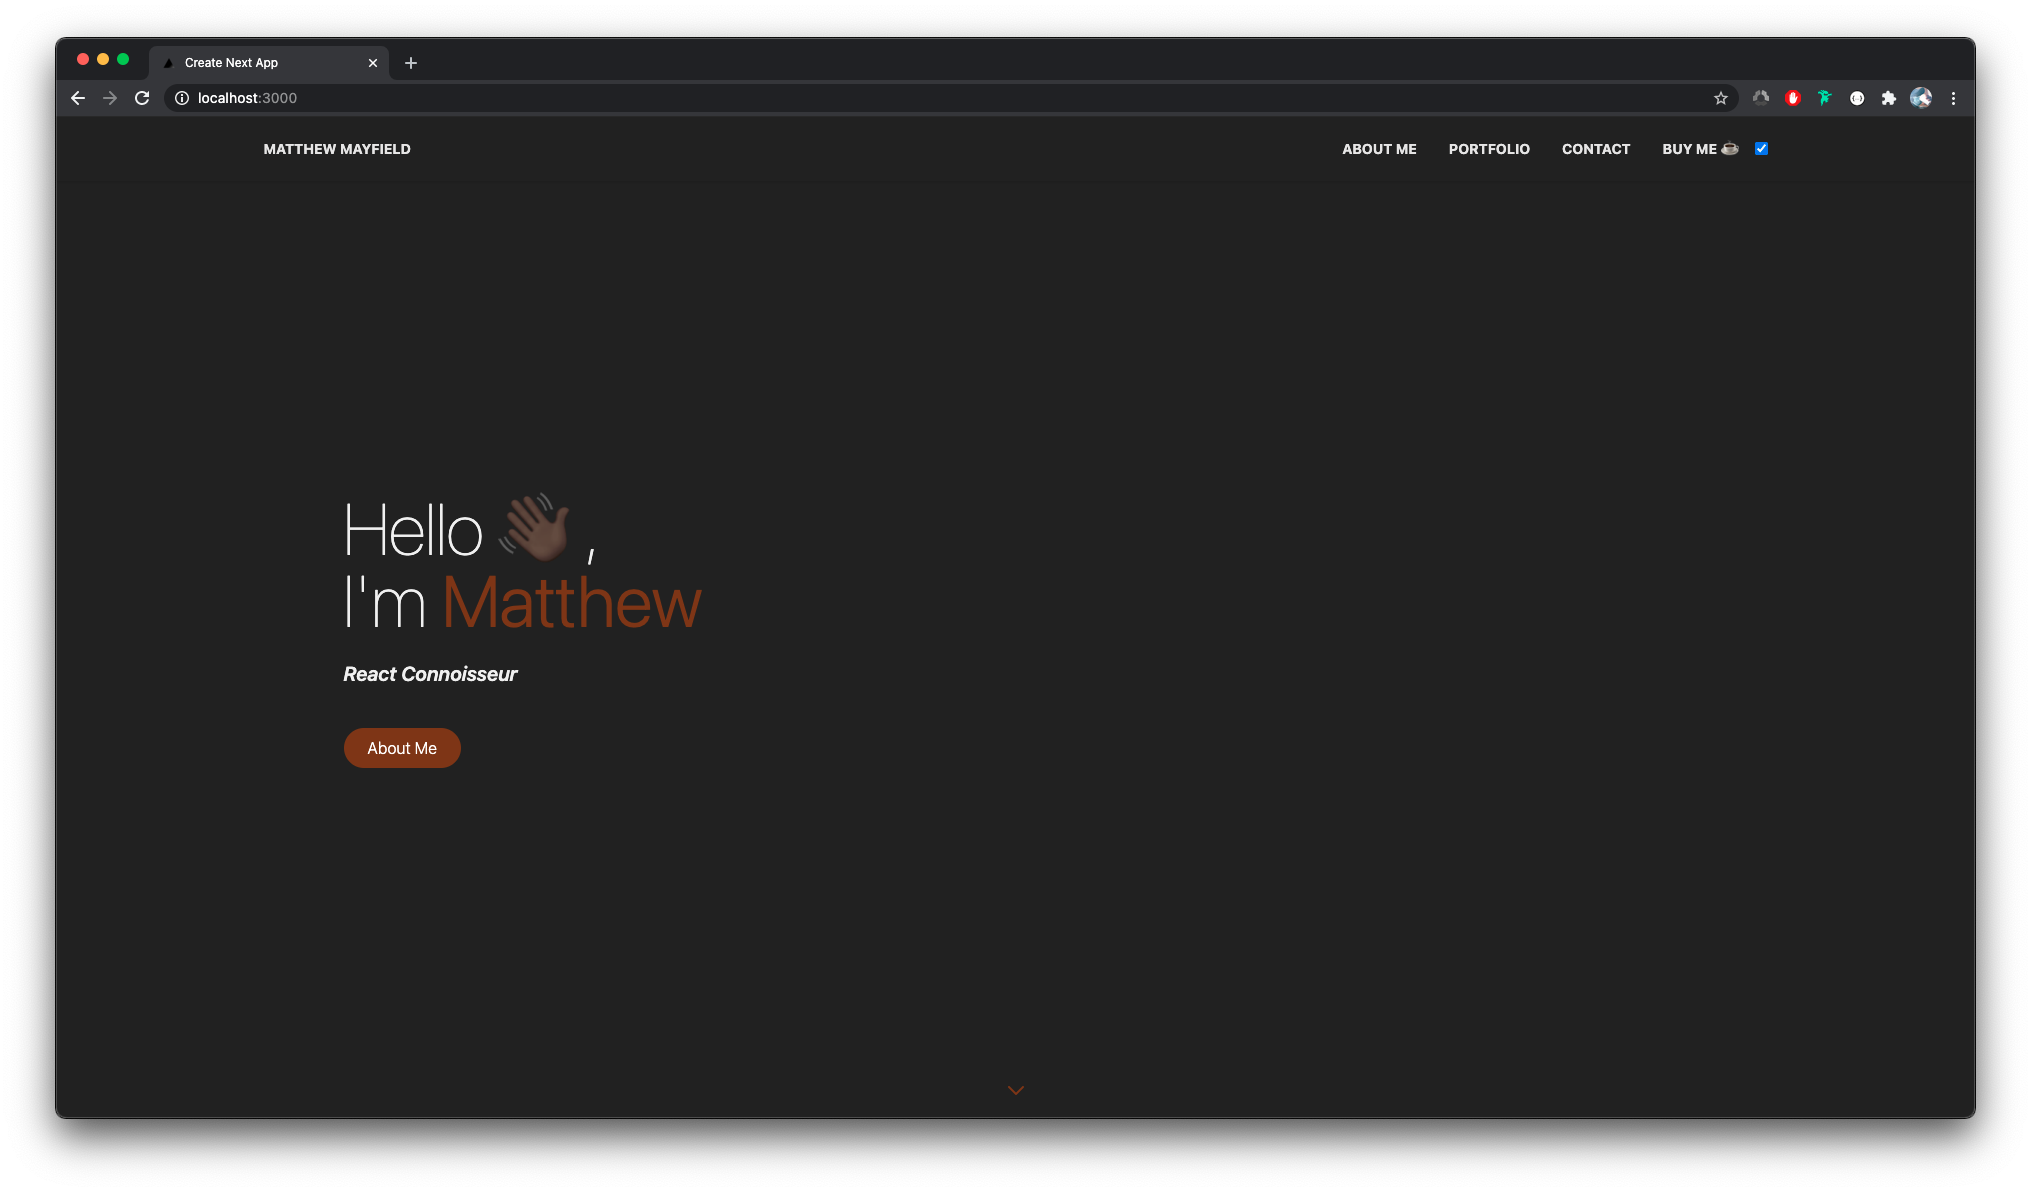
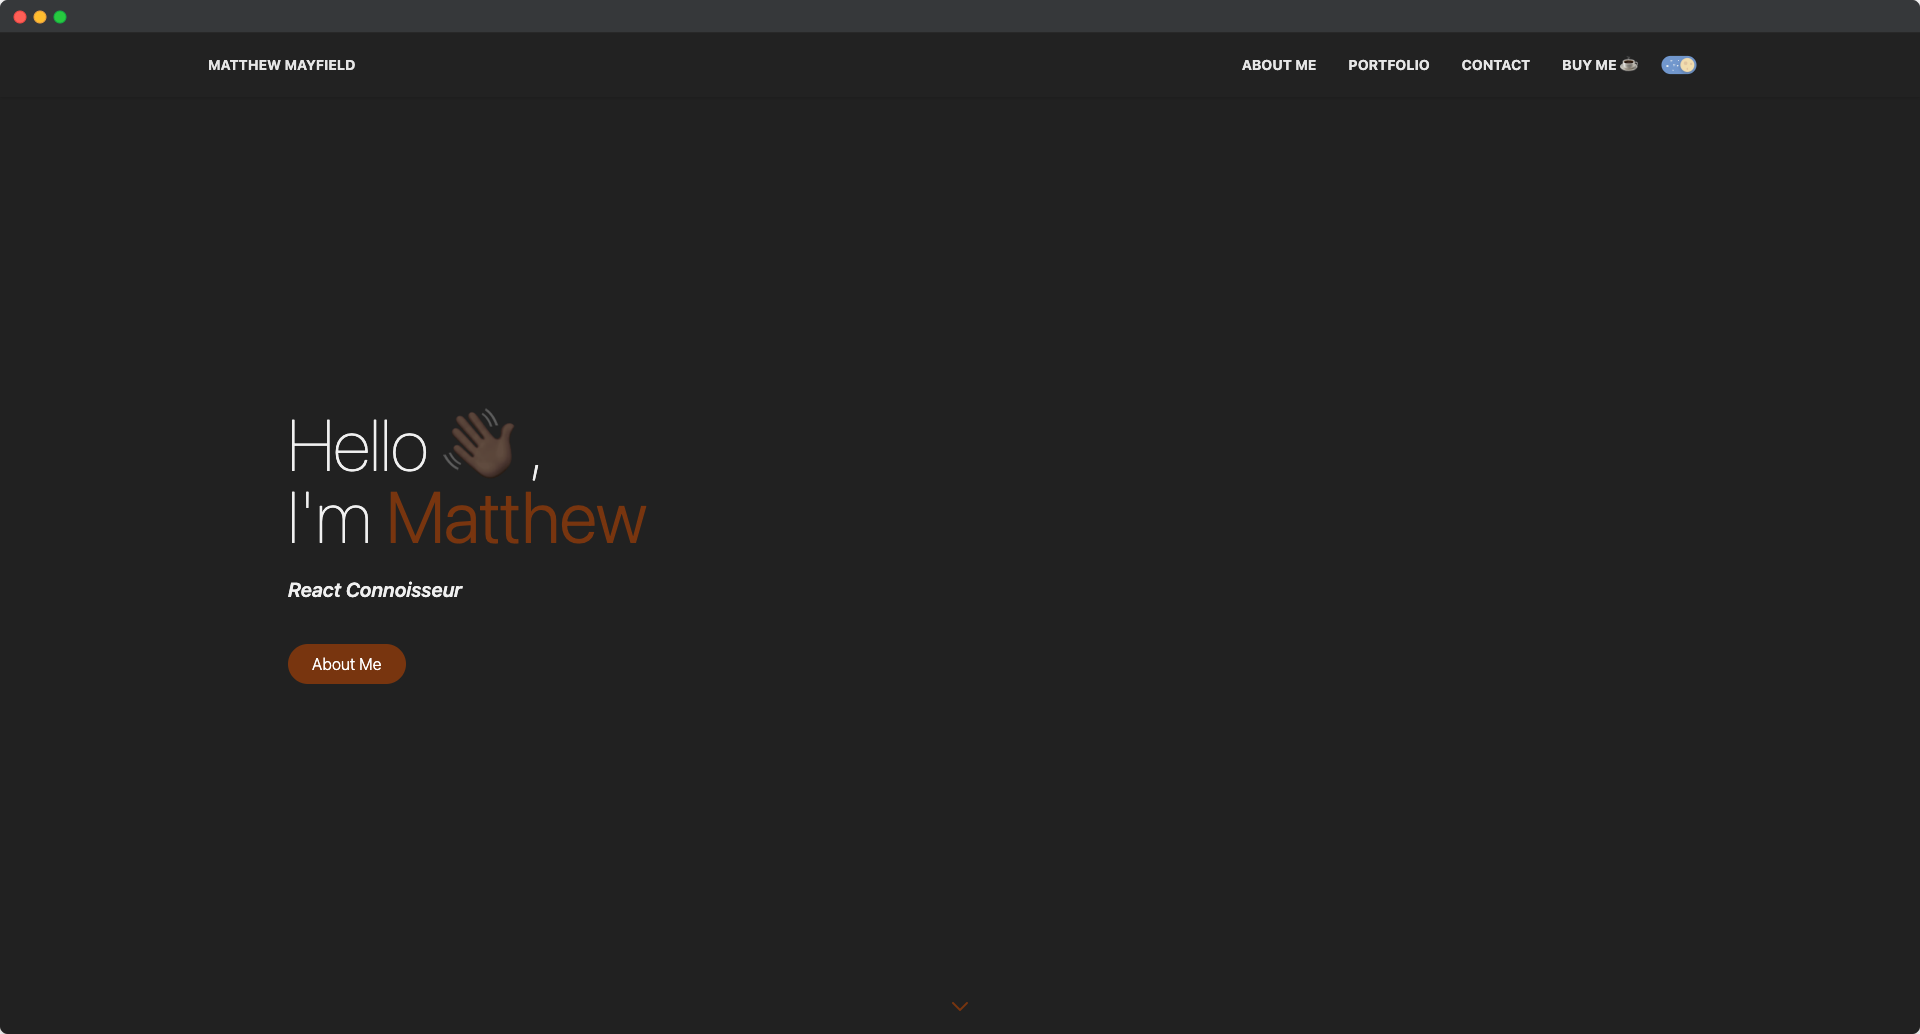
added contact

Changed region(s): [[0.0, 0.0, 1.0, 1.0], [0.1562, 0.4023, 0.3438, 0.5261], [0.125, 0.5571, 0.25, 0.6809]]

diff --git a/components/UI/Socials.js b/components/UI/Socials.js
@@ -1,0 +1,80 @@
+import React from 'react';
+import styled from 'styled-components';
+import { FontAwesomeIcon } from '@fortawesome/react-fontawesome';
+import {
+  faGithub,
+  faLinkedinIn,
+  faInstagram,
+  faYoutube,
+  faTwitter,
+} from '@fortawesome/free-brands-svg-icons';
+
+const StyledIcon = styled(FontAwesomeIcon)`
+  color: var(--text-highlight);
+  font-size: 2.2rem;
+  transition: color 0.2s ease-out;
+
+`;
+
+const socials = [    {
+        name: 'Github',
+        path: 'https://github.com/theMattMayfield',        
+        icon: faGithub,
+        id: 0
+    },
+    {
+        name: 'LinkedIn',
+        path: 'https://LinkedIn.com/theMattMayfield',        
+        icon: faLinkedinIn,
+        id: 1
+    },
+    {
+        name: 'Instagram',
+        path: 'https://instagram.com/theMattMayfield',        
+        icon: faInstagram,
+        id: 2
+    },
+    {
+        name: 'Youtube',
+        path: 'https://youtube.com/theMattMayfield',        
+        icon: faYoutube,
+        id: 3
+    },
+    {
+        name: 'Twitter',
+        path: '',        
+        icon: faTwitter,
+        id: 4
+    }
+]
+
+const SocialLink = () => {
+    return (
+        socials.map((social, i) => (
+            <a
+className="no-underline rounded-full border-2 border-yellow-900 w-12 h-12 cursor-pointer flex items-center justify-center my-0"
+  rel="noreferrer"
+  target="_blank"
+  aria-label={social.name}
+  href={social.path}
+>
+  <StyledIcon className="w-6 h-6" icon={social.icon} />
+</a>
+        ))
+    )
+}
+
+const Social = () => {
+
+  return (
+    <>
+      <div className="flex items-center justify-center space-x-8">
+        <SocialLink />
+        
+      </div>
+     
+    </>
+  );
+};
+
+export default Social;

diff --git a/components/Utils/PortfolioItems.js b/components/Utils/PortfolioItems.js
@@ -31,13 +31,15 @@ const Items = [
 
 const filler = `Lorem Ipsum is simply dummy text of the printing and typesetting industry. Lorem Ipsum has been the 
 industry's standard dummy text ever since the 1500s, when an unknown printer took a galley of type and scrambled it to
+ make a type specimen book. When an unknown printer took a galley of type and scrambled it to
+ make a type specimen book. When an unknown printer took a galley of type and scrambled it to
  make a type specimen book.`
 
 export default function PortfolioItems(props) {
 
   return (
     <>
-      <div className="flex flex-col space-y-32">
+      <div className="flex flex-col space-y-32 max-w-6xl mx-auto">
 
         {Items.map((item, i) => (
 
@@ -46,10 +48,10 @@ export default function PortfolioItems(props) {
             <div className={"lg:flex w-full justify-around text-center " + (i % 2 != 0 ? 'flex-row-reverse' : '')}>
               <PortfolioItem path={item.path} alt={item.alt} />
               <div className="flex flex-col my-auto space-y-6 lg:w-1/2">
-                <p className={"text-center " + (i % 2 != 0 ? 'lg:text-left' : 'lg:text-right')}>{filler}</p>
-                <div className="flex justify-center space-x-4">
-                  <Button>gnrtueigwbsl</Button>
-                  <Button>gnrtueigwbsl</Button>
+                <p className={"text-left"}>{filler}</p>
+                <div className="flex  space-x-4">
+                  <Button>View</Button>
+                  <Button>github</Button>
                 </div>
               </div>
             </div>

diff --git a/components/Utils/NavItemsDesktop.js b/components/Utils/NavItemsDesktop.js
@@ -1,6 +1,5 @@
 import { motion } from "framer-motion"
 import { Link } from 'react-scroll';
-import { useNavState, useNavStateUpdate } from './NavContext'
 
 const navItems = [{
     text: 'About Me',
@@ -55,7 +54,7 @@ export default function NavItems(props) {
                     <motion.li
                         variants={NavItemsVarients}
                         initial="hidden"
-                        animate={props.animate}
+                        animate='visible'
                         custom={i}
                         key={i}
                         className="px-3 py-2 flex items-center text-sm uppercase font-bold dark:text-matt-textlight dark:hover:text-yellow-900 text-matt-textdark hover:text-yellow-900 cursor-pointer ">
@@ -67,7 +66,7 @@ export default function NavItems(props) {
                     <motion.li
                         variants={NavItemsVarients}
                         initial="hidden"
-                        animate={props.animate}
+                        animate='visible'
                         custom={i}
                         key={i}
                         className="px-3 py-2 flex items-center text-sm uppercase font-bold dark:text-matt-textlight dark:hover:text-yellow-900 text-matt-textdark hover:text-yellow-900 cursor-pointer ">

diff --git a/components/UI/DayNightToggleDesktop.js b/components/UI/DayNightToggleDesktop.js
@@ -5,17 +5,17 @@ import { useSpring, animated } from 'react-spring';
 
 
 
-const darkModeToggle = ({ mobile }) => {  
+const darkModeToggle = () => {  
 
   const Wrapper = styled(animated.div)`
  
 
   display: flex;
-  transform: ${({ mobile }) => (mobile ? 'scale(1)' : 'scale(0.7)')};
-  margin: ${({ mobile }) => (mobile ? '1rem 0' : '0')};
-  margin-right: ${({ mobile }) => (mobile ? '0rem' : '0.5rem')};
-  position: ${({ mobile }) => (mobile ? 'relative' : 'relative')};
-  right: ${({ mobile }) => (mobile ? null : '0')};
+  transform: scale(0.7);
+  margin: 0;
+  margin-right: 0.5rem;
+  position: relative;
+  right: 0;
 
   & input {
     position: absolute;
@@ -196,7 +196,7 @@ const Span = styled.span`
     }
     const darkMode = useDarkMode(false, darkModeConfig);
   return (
-    <Wrapper mobile={mobile} >
+    <Wrapper>
       <input
         type="checkbox"
         id="dn"

diff --git a/components/NavbarFull.js b/components/NavbarFull.js
@@ -30,10 +30,8 @@ export default function NavbarFull() {
                                 </ul>
 
                                 <div className="px-3 py-4 mx-auto text-xs uppercase font-bold dark:text-matt-textlight dark:hover:text-yellow-900 text-matt-textdark hover:text-yellow-900 cursor-pointer">
-                                    <span className="ml-2">
-                                        <div className>
-                                    <DayNightToggle mobile />
-                                </div>
+                                    <span className="ml-2">                                        
+                                    <DayNightToggle mobile />                                
                                 </span></div>
                             </div>
 

diff --git a/components/Layouts/SectionWrapper.js b/components/Layouts/SectionWrapper.js
@@ -5,9 +5,9 @@ export default function Wrapper({ children, ...props }) {
   
   return (
     <>
-      <div id={props.id} className="text-matt-textdark dark:text-matt-textlight bg-transparent  pt-24 px-8 lg:px-24 container mx-auto flex flex-col min-h-full">
+      <div id={props.id} className="text-matt-textdark dark:text-matt-textlight bg-transparent mb-40 pt-24 px-8 lg:px-24 container mx-auto flex flex-col min-h-full">
         <h2 className="text-yellow-900 uppercase w-full text-center text-base lg:text-2xl font-semibold tracking-wide">{props.title}</h2>
-
+        <p className="text-center pt-2">{props.sub}</p>
         
 
 

diff --git a/components/Sections/Hero.js b/components/Sections/Hero.js
@@ -85,7 +85,7 @@ export default function Hero() {
 
     return (
         <>
-            <div className="bg-transparent my-view pt-16 px-8 lg:px-24 container mx-auto flex flex-col justify-between"  id="hero">
+            <div className="bg-transparent my-view pt-16 px-8 lg:px-24 container max-w-7xl mx-auto flex flex-col justify-between"  id="hero">
                 <div></div>
 
                 <div className="space-y-2">

diff --git a/components/Sections/Contact.js b/components/Sections/Contact.js
@@ -1,11 +1,11 @@
 import SectionWrapper from '../Layouts/SectionWrapper'
-
+import Socials from '../UI/Socials'
 export default function AboutMe(props) {
 
     return (
         <>
         <SectionWrapper id="contact" title="Contact Me">
-
+<Socials />
             </SectionWrapper>
         </>
     );

diff --git a/components/Sections/Portfolio.js b/components/Sections/Portfolio.js
@@ -9,7 +9,9 @@ export default function Portfolio() {
 
     return (
         <>
-        <SectionWrapper id="portfolio" title="Portfolio">
+        <SectionWrapper id="portfolio" title="Portfolio" sub="Check out what I've been up to!">
+
+            
            
 
             <PortfolioItems />

diff --git a/components/Utils/PortfolioItem.js b/components/Utils/PortfolioItem.js
@@ -5,12 +5,12 @@ export default function PortfolioItem(props) {
 
     return (
         <>
-          <Image
+          <img
           className="rounded"
       src={props.path}
       alt={props.alt}
       width={500}
-      height={300}
+      height={293.44}
     />
         </>
     );
